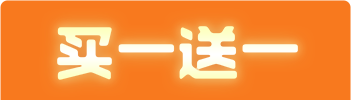
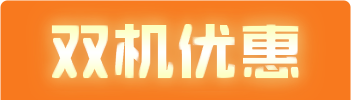
修改文案

Changed region(s): [[0.1425, 0.15, 0.8832, 0.87]]

diff --git a/sass/pages/phone/_a-details.scss b/sass/pages/phone/_a-details.scss
@@ -2,8 +2,14 @@
   .content-scrollable {
     background: #ebebeb;
   }
-  .star-color{
-    color:#f00;
+  .star-color {
+    color: #f00;
+  }
+  .img-label {
+    height: 0.14rem;
+    margin-left: 0.05rem;
+    @include inline-block;
+    vertical-align: baseline;
   }
   .line {
     margin-left: .05rem;
@@ -29,7 +35,7 @@
     }
     .product-price {
       margin-top: 0.1rem;
-      margin-bottom:.1rem;
+      margin-bottom: .1rem;
       ul {
         li {
           list-style: none;
@@ -101,7 +107,7 @@
         font-size: 0.14rem;
         &.img-box {
           width: 0.25rem;
-          padding-right:.02rem;
+          padding-right: .02rem;
         }
       }
     }
@@ -126,27 +132,27 @@
     }
   }
   .pick-number {
-    .choose-number{
-      font-size:.16rem;
-      &:before{
-        border:0;
+    .choose-number {
+      font-size: .16rem;
+      &:before {
+        border: 0;
       }
-      &:after{
-        border:0;
+      &:after {
+        border: 0;
       }
-      .choose-number-a{
-        padding:10px 0;
-        margin:0 15px;
-        border-top:1px solid #d9d9d9;
+      .choose-number-a {
+        padding: 10px 0;
+        margin: 0 15px;
+        border-top: 1px solid #d9d9d9;
       }
     }
     .weui-cells {
       margin-top: 0;
     }
-    .the-notice{
-      font-size:.14rem;
-      color:#f6763d;
-      margin-bottom:.1rem;
+    .the-notice {
+      font-size: .14rem;
+      color: #f6763d;
+      margin-bottom: .1rem;
     }
 
     .sbtn {
@@ -157,12 +163,12 @@
       padding-bottom: 0.2rem;
       a {
         @include inline-block;
-        padding:.05rem .02rem;
+        padding: .05rem .02rem;
         margin-left: 0.25rem;
         margin-right: 0.1rem;
         @include border-radius(10rem);
         border: 1px solid #26a408;
-        color:#26a408;
+        color: #26a408;
       }
     }
   }
@@ -272,35 +278,35 @@
       padding: 0 .05rem;
       color: #cc1414;
       font-weight: 600;
-      margin-top: .1rem ;
+      margin-top: .1rem;
       p {
-        font-size:.14rem;
-        .price-color{
-          color:#f6692a;
+        font-size: .14rem;
+        .price-color {
+          color: #f6692a;
         }
       }
     }
   }
   .footer-nav {
-    &.nav-list{
-      padding-left:1rem;
-      .nav-item{
-        &.nav-comment{
-          .nav-label{
-            line-height:.1rem;
+    &.nav-list {
+      padding-left: 1rem;
+      .nav-item {
+        &.nav-comment {
+          .nav-label {
+            line-height: .1rem;
           }
-          .nav-icon{
-            svg{
-              width:.3rem;
-              height:.3rem;
+          .nav-icon {
+            svg {
+              width: .3rem;
+              height: .3rem;
               display: block;
             }
           }
         }
       }
     }
-    .price-color{
-      font-weight:700;
+    .price-color {
+      font-weight: 700;
     }
     padding-left: 0.48rem;
     .nav-comment {
@@ -324,13 +330,13 @@
     padding-top: 0.1rem;
     margin-top: 0.1rem;
     padding-bottom: 0.15rem;
-    .title-icon:before{
-      background-color:#1991ee;
+    .title-icon:before {
+      background-color: #1991ee;
     }
   }
   .weui-cells__title {
     margin-top: 0;
-    margin-bottom:0;
+    margin-bottom: 0;
   }
   .has-footer {
     &:after {
@@ -354,29 +360,29 @@
     }
   }
   .card-details {
-    .card-details-1{
-      ul{
-        background:#fff;
-        padding:.05rem .15rem .1rem .15rem;
-        li{
-          margin:0;
+    .card-details-1 {
+      ul {
+        background: #fff;
+        padding: .05rem .15rem .1rem .15rem;
+        li {
+          margin: 0;
         }
       }
     }
-    .tel-details{
-      margin:0 15px;
-      padding:10px  0 5px 0;
-      border-top:1px dashed #d9d9d9;
+    .tel-details {
+      margin: 0 15px;
+      padding: 10px 0 5px 0;
+      border-top: 1px dashed #d9d9d9;
     }
     font-size: 0.12rem;
-    .weui-cells{
-      font-size:.16rem;
-      &:before{
-        border:0;
+    .weui-cells {
+      font-size: .16rem;
+      &:before {
+        border: 0;
       }
-    &:after{
-      border:0;
-    }
+      &:after {
+        border: 0;
+      }
     }
     .card-list-item {
 
@@ -395,8 +401,8 @@
         left: 0;
         top: 0;
         width: .4rem;
-        .on-cardetails{
-          display:none;
+        .on-cardetails {
+          display: none;
         }
       }
       .item-box {
@@ -443,7 +449,7 @@
         img {
           display: none !important;
         }
-        .on-cardetails{
+        .on-cardetails {
           display: block !important;
         }
       }
@@ -481,7 +487,7 @@
   nav {
     background: $color-primary;
     color: #fff;
-    @include box-shadow(0px 1px 5px #888);
+    @include box-shadow(0px 0px 3px #ddd);
     .nav-item {
       color: #fff;
     }
@@ -593,7 +599,7 @@
   }
   #receiverAddressPanel {
     padding-left: 0.3rem;
-    background:#fff;
+    background: #fff;
     .weui-cell {
       padding: 0;
       border: 0;
@@ -601,11 +607,11 @@
         width: 0.7rem;
       }
       .weui-cell__bd {
-        &.adr-btn{
-          background:  rgba(0, 0, 0, 0) -webkit-gradient(linear, left top, left bottom, from(#fff), to(#ededed));
-          background:  rgba(0, 0, 0, 0) -moz-linear-gradient(center top , #fff, #ededed) repeat scroll 0 0;
-          background:  rgba(0, 0, 0, 0) -o-linear-gradient(center top , #fff, #ededed) repeat scroll 0 0;
-          background:  rgba(0, 0, 0, 0) linear-gradient(center top , #fff, #ededed) repeat scroll 0 0;
+        &.adr-btn {
+          background: rgba(0, 0, 0, 0) -webkit-gradient(linear, left top, left bottom, from(#fff), to(#ededed));
+          background: rgba(0, 0, 0, 0) -moz-linear-gradient(center top, #fff, #ededed) repeat scroll 0 0;
+          background: rgba(0, 0, 0, 0) -o-linear-gradient(center top, #fff, #ededed) repeat scroll 0 0;
+          background: rgba(0, 0, 0, 0) linear-gradient(center top, #fff, #ededed) repeat scroll 0 0;
         }
         padding-top: 0.07rem;
         padding-bottom: 0.07rem;
@@ -613,8 +619,8 @@
         padding-left: 0.1rem;
         @include border-radius(3px);
         &.bd-ok {
-          padding-top:.15rem;
-          padding-bottom:.15rem;
+          padding-top: .15rem;
+          padding-bottom: .15rem;
           margin-bottom: .1rem;
           border: 1px solid #26a408;
           @include border-radius(100px);
@@ -643,13 +649,13 @@
       }
     }
   }
-  #receiverAddress{
-    .adr-tab{
-      font-size:.16rem;
-      font-weight:400;
-     .weui-cell{
-       padding:15px 15px 15px 0;
-     }
+  #receiverAddress {
+    .adr-tab {
+      font-size: .16rem;
+      font-weight: 400;
+      .weui-cell {
+        padding: 15px 15px 15px 0;
+      }
     }
   }
   .weui-cell__ft {
@@ -657,8 +663,8 @@
   }
   .adr-content {
     font-size: 0.12rem;
-    .weui-panel:before,.weui-panel:after{
-      border:0;
+    .weui-panel:before, .weui-panel:after {
+      border: 0;
     }
     .weui-media-box {
       padding: 0.1rem;

diff --git a/public/html/pages/phone/phone-details/double/A/details.html b/public/html/pages/phone/phone-details/double/A/details.html
@@ -28,7 +28,7 @@
                         <div class="label">新开号预存话费 月供仅<span ng-bind="totolPrice/12 | number:0"></span>元</div>
                         <div class="product-price">
                             <ul>
-                                <li><ins>1</ins><span>预存话费：</span><em>￥</em><em ng-bind="phone.phoneBillPrice"></em></li>
+                                <li><ins>1</ins><span>预存话费：</span><em>￥</em><em ng-bind="phone.phoneBillPrice"></em><img class="img-label" src="/images/phones/assets/details/fanhuan.png"></li>
                                 <li><ins>2</ins><span>购机价格：</span><em>￥</em><em class="" ng-bind="phone.phonePrice"></em></li>
                             </ul>
                         </div>

diff --git a/public/html/pages/phone/index/A/index.html b/public/html/pages/phone/index/A/index.html
@@ -258,7 +258,7 @@
     </div>
     <div class="footer-nav nav-list">
         <div class="pure-g">
-            <div class="nav-button nav-item line-r pure-u-1-4" ng-click="btNavItem($event,0,'#homePhoneLists');">买一送一</div>
+            <div class="nav-button nav-item line-r pure-u-1-4" ng-click="btNavItem($event,0,'#homePhoneLists');">双机优惠</div>
             <div class="nav-button nav-item line-r pure-u-1-4" ng-click="btNavItem($event,1,'#homePhoneLists');">爆款单机</div>
             <div class="nav-button nav-item line-r pure-u-1-4" ng-click="btNavItem($event,2,'#cards');">超值套餐</div>
             <div class="nav-button nav-item pure-u-1-4" ng-click="btNavItem($event,3);">咨询客服</div>

diff --git a/public/html/pages/phone/index/B/index.html b/public/html/pages/phone/index/B/index.html
@@ -252,7 +252,7 @@
     </div>
     <div class="footer-nav nav-list">
         <div class="pure-g">
-            <div class="nav-button nav-item line-r pure-u-1-4" ng-click="btNavItem($event,0,'#homePhoneLists');">买一送一</div>
+            <div class="nav-button nav-item line-r pure-u-1-4" ng-click="btNavItem($event,0,'#homePhoneLists');">双机优惠</div>
             <div class="nav-button nav-item line-r pure-u-1-4" ng-click="btNavItem($event,1,'#homePhoneLists');">爆款单机</div>
             <div class="nav-button nav-item line-r pure-u-1-4" ng-click="btNavItem($event,2,'#cards');">超值套餐</div>
             <div class="nav-button nav-item pure-u-1-4" ng-click="btNavItem($event,3);">咨询客服</div>

diff --git a/public/html/modules/phonePackage/phonePackage.html b/public/html/modules/phonePackage/phonePackage.html
@@ -26,7 +26,7 @@
                 </div>
             </li>
         </ul>
-        <div class="item-lists-tips"><a href="javascript:;"><span ng-bind="pkg.network"></span>国内流量，<span ng-bind="pkg.talkTime">850</span>分钟国内通话，50条短信，全国无漫游</span></a></div>
+        <div class="item-lists-tips"><a href="javascript:;"><span ng-bind="pkg.network"></span>国内流量，<span ng-bind="pkg.talkTime">850</span>分钟国内通话，50条短信，全国无漫游</a></div>
     </div>
 
     <div id="packageInfo" style="display: none;">
